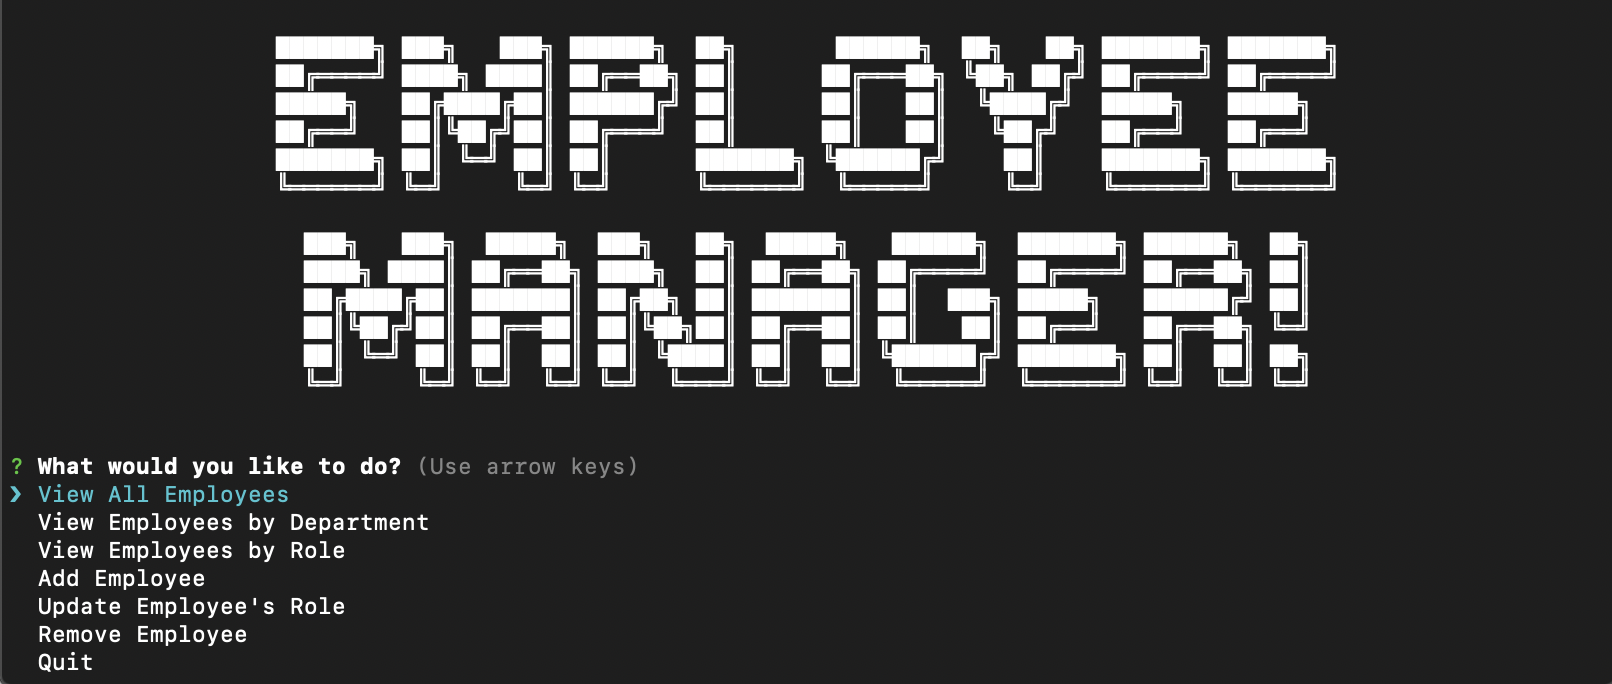
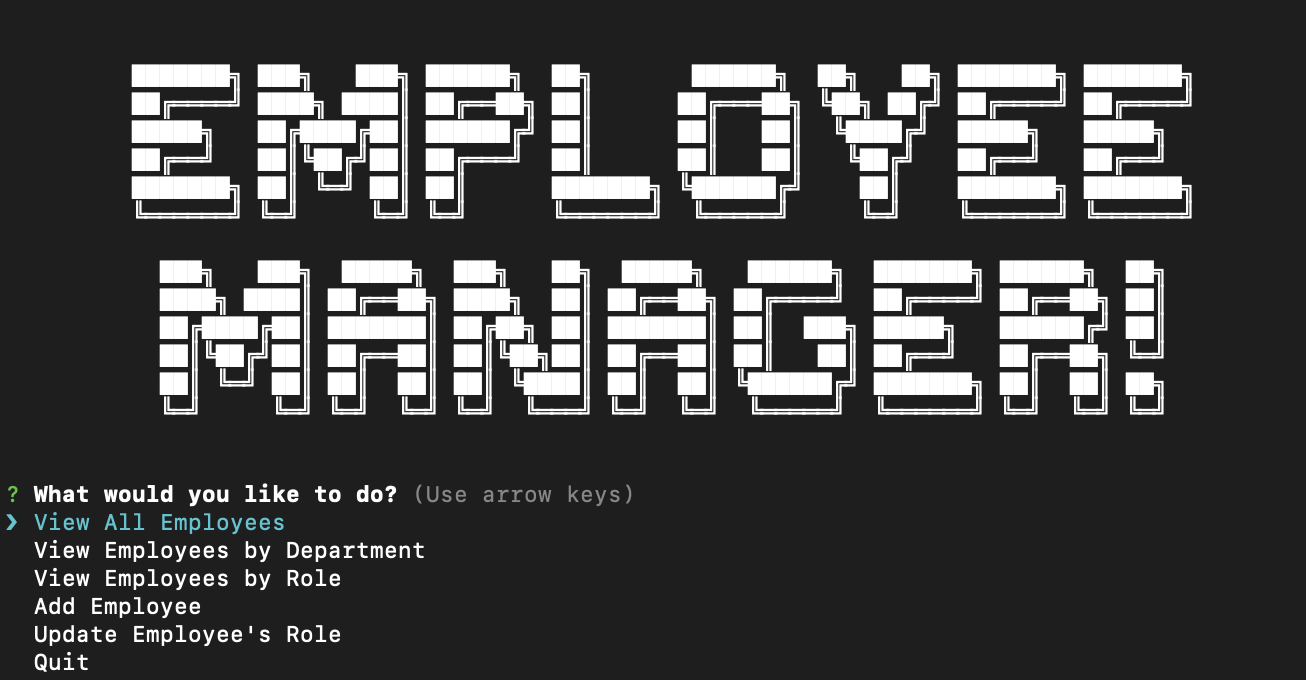
updated readme image

Changed region(s): [[0.0919, 0.0309, 0.9188, 0.6176], [0.0, 0.6485, 0.49, 0.9882]]

diff --git a/employee_managment_system/index.js b/employee_managment_system/index.js
@@ -54,7 +54,7 @@ function start() {
           "View Employees by Role",
           "Add Employee",
           "Update Employee's Role",
-          "Remove Employee",
+          // "Remove Employee",
           "Quit"
         ]
     })
@@ -75,9 +75,9 @@ function start() {
       else if (answer.begin === "Update Employee's Role") {
         updateRole();
       }
-      else if (answer.begin === "Remove Employee") {
-        removeEmp();
-      }
+      // else if (answer.begin === "Remove Employee") {
+      //   removeEmp();
+      // }
       else if (answer.begin === "Quit") {
         console.log("====Goodbye====");
       }
@@ -377,34 +377,34 @@ function updateRole() {
 
 //Remove employee
 //========================================
-function removeEmp() {
-  connection.query("SELECT first_name, last_name FROM employee", function (err, result) {
-    if (err) throw err;
+// function removeEmp() {
+//   connection.query("SELECT first_name, last_name FROM employee", function (err, result) {
+//     if (err) throw err;
 
-    var choiceArray = [];
+//     var choiceArray = [];
 
-    for (var i = 0; i < result.length; i++) {
-      var choices = result[i].first_name + " " + result[i].last_name;
-      choiceArray.push(choices);
-    }
-    inquirer
-      .prompt({
-        name: "remove",
-        type: "list",
-        message: "Which employee would you like to remove?",
-        choices: choiceArray
-      })
-      .then(function (answer) {
-        connection.query("DELETE FROM employee WHERE ?",
-          {
-            first_name: answer.choiceArray
-          },
-          function (err, result) {
-            if (err) throw err;
+//     for (var i = 0; i < result.length; i++) {
+//       var choices = result[i].first_name + " " + result[i].last_name;
+//       choiceArray.push(choices);
+//     }
+//     inquirer
+//       .prompt({
+//         name: "remove",
+//         type: "list",
+//         message: "Which employee would you like to remove?",
+//         choices: choiceArray
+//       })
+//       .then(function (answer) {
+//         connection.query("DELETE FROM employee WHERE ?",
+//           {
+//             first_name: answer.choiceArray
+//           },
+//           function (err, result) {
+//             if (err) throw err;
 
-            console.log("=== Employee has been Removed ===");
-            start();
-          });
-      });
-  });
-}
+//             console.log("=== Employee has been Removed ===");
+//             start();
+//           });
+//       });
+//   });
+// }
